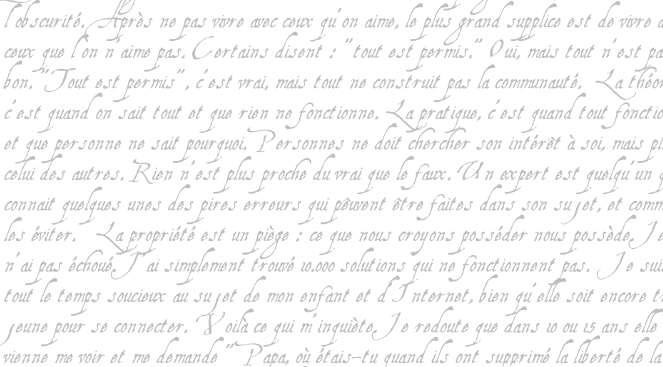
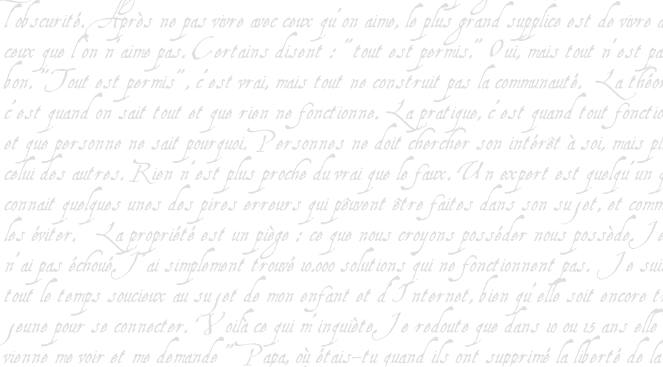
share actions

diff --git a/web/css/main.css b/web/css/main.css
@@ -1,6 +1,6 @@
 
 html {
-	background: #bfbfbf url(../images/background.png) repeat fixed center center;
+	background: #f5f5f5 url(../images/background.jpg) repeat fixed center center;
 	font-family: Georgia, time, serif 
 }
 
@@ -85,10 +85,20 @@ nav a:hover, nav a:active, nav a:focus {
   box-shadow: 0 0 0 rgba(0, 0, 0, 0);
 }
 
-a.card-container:hover, a.card-container:hover, a.card-container:hover {
+a.card-container:hover, a.card-container:active, a.card-container:focus {
   -moz-box-shadow: 0 0 3px rgba(0, 0, 0, .6);
   -webkit-box-shadow: 0 0 3px rgba(0, 0, 0, .6);
   box-shadow: 0 0 3px rgba(0, 0, 0, .6);
+  outline: none;
+}
+
+.author-citations .card-container {
+  margin-bottom: 0;
+  margin-top: 2em;
+}
+
+.author-citations .citation:first-child .card-container {
+  margin-top: 0;
 }
 
 .card-container, blockquote {
@@ -134,19 +144,49 @@ h2 {
 .action {
   font-size: .8em;
   color: #000;
+  line-height: 30px;
 }
 
 .action a {
-  color: #000;
   text-decoration: none;
   -moz-transition: all 1s ease;
   -o-transition: all 1s ease;
   -webkit-transition: all 1s ease;
   transition: all 1s ease;
+  padding: 5px;
+  font-family: Arial;
+  font-weight: bold;
+  background: #f5f5f5;
+  color: #555;
+  border-radius: 2px;
+  border: 1px solid #ccc;
+  -moz-box-shadow: 0 0 0 rgba(0, 0, 0, 0);
+  -webkit-box-shadow: 0 0 0 rgba(0, 0, 0, 0);
+  box-shadow: 0 0 0 rgba(0, 0, 0, 0);
+  margin-right: .3em;
 }
 
+.action .icon {
+	background: #555 url(../images/share-icons.png) no-repeat 0 0;
+	padding-right: 25px;
+}
+
+.action .icon.mail-share { background-position: -10px -20px; }
+.action .icon.facebook-share { background-position: -10px -65px; padding-right: 18px; }
+.action .icon.twitter-share { background-position: -11px -112px; }
+.action .icon.google-share { background-position: -10px -158px; }
+.action .icon.pinterest-share { background-position: -10px -206px;padding-right: 22px; }
+
 .action a:hover, .action a:active, .action a:focus {
-  color: #CB00F4;
+  color: #000;
+  -moz-box-shadow: 0 0 1px rgba(0, 0, 0, .4);
+  -webkit-box-shadow: 0 0 1px rgba(0, 0, 0, .4);
+  box-shadow: 0 0 1px rgba(0, 0, 0, .4);
+  outline: none;
+}
+
+.action a.icon:hover, .action a.icon:active, .action a.icon:focus {
+  background-color: #000;
 }
 
 .tags {
@@ -155,10 +195,15 @@ h2 {
   font-family: 'QuicksandBookOblique';
 }
 
+aside .tags {
+  margin: 1em 0;
+}
+
 .tags h2 {
   font-size: 1em;
   font-weight: normal;
-  margin: 0 0 5px;
+  margin: 0;
+  line-height: 30px;
 }
 
 .tags ul {

diff --git a/apps/frontend/modules/citation/templates/_action.php b/apps/frontend/modules/citation/templates/_action.php
@@ -1,0 +1,11 @@
+
+  <a href="<?php echo $image ?>" target="_blank" title="Citation en fond d'écran" >fond d'écran</a> 
+	<!-- <a class="mail-share icon" title="Envoyer à un ami" href=""></a> --> 
+  <a class="facebook-share icon" title="partager sur facebook" target="_blank" href="http://www.facebook.com/sharer.php?u=<?php echo $url ?>&amp;t=<?php echo $msg ?>"> </a> 
+  <a class="twitter-share icon" title="partager sur twitter" target="_blank" href="http://twitter.com/share?text=<?php echo $msg ?>&amp;url=<?php echo $url ?>"> </a> 
+  <a class="google-share icon" title="partager sur google+" target="_blank" href="https://plus.google.com/share?url=<?php echo $url ?>&amp;hl=fr"> </a> 
+  <a class="pinterest-share icon" title="partager sur pinterest" target="_blank" href="http://pinterest.com/pin/create/button/?url=<?php echo $url ?>&amp;media=<?php echo $image ?>&amp;description=<?php echo $msg ?>"> </a> 
+	<!-- <a href="">Personaliser le fond d'écran</a> 
+	<a href="">Envoyer la citation par mail</a>  -->
+  
+	

diff --git a/apps/frontend/modules/citation/templates/showSuccess.php b/apps/frontend/modules/citation/templates/showSuccess.php
@@ -18,9 +18,11 @@
 <div class="clear"></div>
 
 <div class="grid_8 prefix_1 action">
-	<a href="<?php echo url_for('@citation_image?sf_format=png&slug='.$citation->slug.'&author='.$citation->Author->slug.'&authorb='.$citation->Author->slug, array('absolute' => true)) ?>">fond d'écran</a>
-	<!-- <a href="">Personaliser le fond d'écran</a>
-	<a href="">Envoyer la citation par mail</a>-->
+  <?php include_partial('citation/action', array(
+  		'msg' => $citation->quote, 
+  		'url' => url_for('@citation?slug='.$citation->slug.'&author='.$citation->Author->slug, array('absolute' => true)), 
+  		'image' => url_for('@citation_image?sf_format=png&slug='.$citation->slug.'&author='.$citation->Author->slug.'&authorb='.$citation->Author->slug, array('absolute' => true))
+  )) ?>
 </div>
 
 <?php if (count($citation->Tags) > 0): ?>

diff --git a/apps/frontend/modules/citation/templates/_aside.php b/apps/frontend/modules/citation/templates/_aside.php
@@ -18,9 +18,10 @@
 		</div>
 		<?php endif ?>
 		<div class="action">
-			<a href="<?php echo url_for('@citation_image?sf_format=png&slug='.$citation->slug.'&author='.$citation->Author->slug.'&authorb='.$citation->Author->slug, array('absolute' => true)) ?>">Fond d'écran</a>
-			<!--<a href="">Personaliser le fond d'écran</a>
-			<a href="">Envoyer la citation par mail</a>
-			<a href="">Partager</a>-->
+		  <?php include_partial('citation/action', array(
+		  		'msg' => $citation->quote, 
+		  		'url' => url_for('@citation?slug='.$citation->slug.'&author='.$citation->Author->slug, array('absolute' => true)), 
+		  		'image' => url_for('@citation_image?sf_format=png&slug='.$citation->slug.'&author='.$citation->Author->slug.'&authorb='.$citation->Author->slug, array('absolute' => true))
+		  )) ?>
 		</div>
 	</aside>

diff --git a/apps/frontend/modules/author/templates/showSuccess.php b/apps/frontend/modules/author/templates/showSuccess.php
@@ -4,13 +4,18 @@
 	<h1><?php echo $author->name ?></h1>
 </div>
 
-<div class="grid_8 prefix_1">
+<div class="grid_8 prefix_1 author-citations">
 
 <?php foreach ($citations as $citation):?>
 
 	<div class="citation">
-		<div class="card-container">
 			<?php include_partial('citation/card', array('citation' => $citation))?>
+		<div class="action">
+		  <?php include_partial('citation/action', array(
+		  		'msg' => $citation->quote, 
+		  		'url' => url_for('@citation?slug='.$citation->slug.'&author='.$citation->Author->slug, array('absolute' => true)), 
+		  		'image' => url_for('@citation_image?sf_format=png&slug='.$citation->slug.'&author='.$citation->Author->slug.'&authorb='.$citation->Author->slug, array('absolute' => true))
+		  )) ?>
 		</div>
 	</div>
 	
